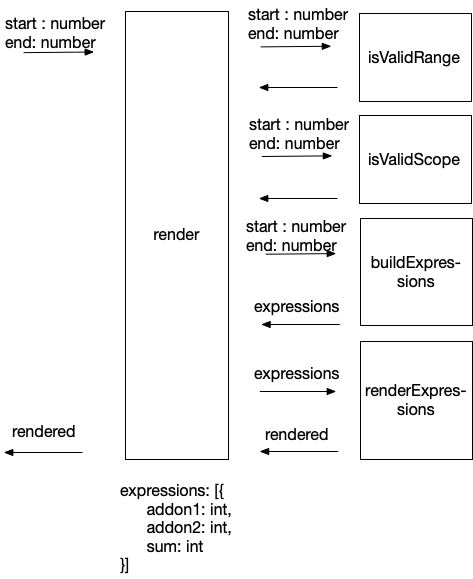
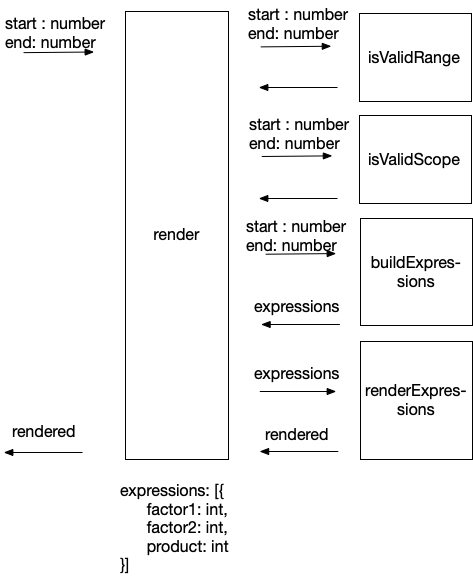
refactor: rename addon -> factor, sum -> product

Changed region(s): [[0.296, 0.8705, 0.5032, 0.9637]]

diff --git a/src/MultiplicationTable.ts b/src/MultiplicationTable.ts
@@ -1,7 +1,7 @@
 interface Expression {
-  addon1: number
-  addon2: number
-  sum: number
+  factor1: number
+  factor2: number
+  product: number
 }
 
 export class MultiplicationTable {
@@ -10,9 +10,9 @@ export class MultiplicationTable {
     for (let row = 0; row <= (end - start); row++) {
       const rowExpresson = []
       for (let col = 0; col <= row; col++) {
-        const addon1 = col + start
-        const addon2 = row + start
-        rowExpresson.push({addon1, addon2, sum: addon1*addon2})
+        const factor1 = col + start
+        const factor2 = row + start
+        rowExpresson.push({factor1, factor2, product: factor1*factor2})
       }
       expressions.push(rowExpresson)
     }
@@ -22,9 +22,9 @@ export class MultiplicationTable {
   renderExpressions = (start: number, end: number, expressions: Expression[][]) => {
     const width = Array(end - start + 1).fill(0)
     return expressions.reverse().map((row: Expression[]) => row
-      .map(({addon1, addon2, sum}: Expression) => {
-        const expression = `${addon1}*${addon2}=${sum}`
-        const col = addon1 - start
+      .map(({factor1, factor2, product}: Expression) => {
+        const expression = `${factor1}*${factor2}=${product}`
+        const col = factor1 - start
         width[col] = Math.max(width[col], expression.length)
         const spacing = ' '.repeat(width[col] - expression.length)
         return expression + spacing
